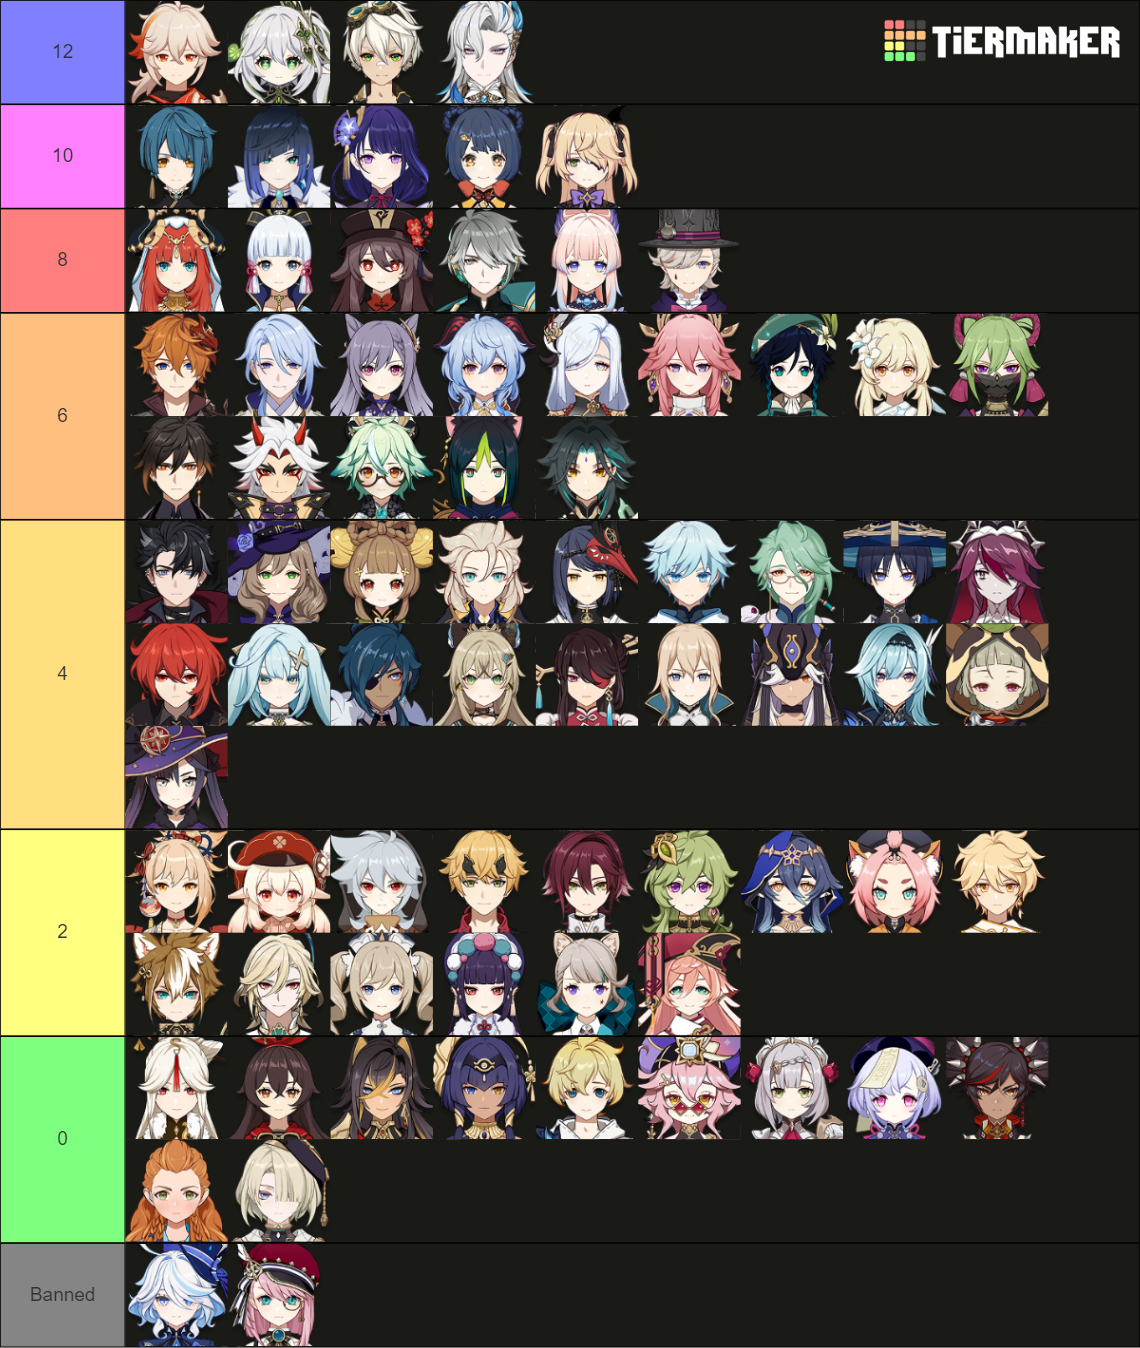
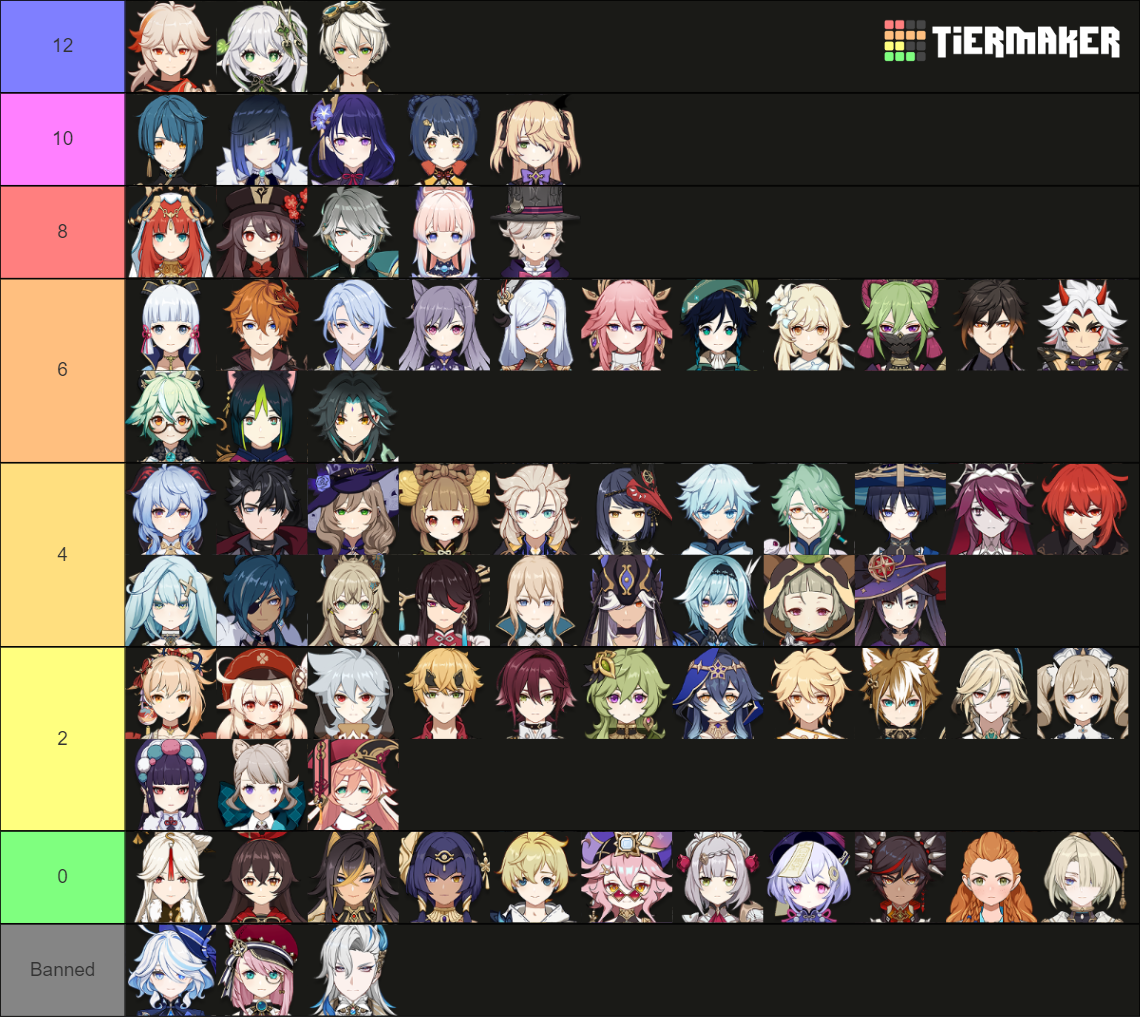
Cycle 1 bans & shop updated

diff --git a/shop.html b/shop.html
@@ -60,6 +60,11 @@
               each refinement it has
             </p>
             <p>
+              Characters released during the patch will always be banned until
+              the next rotation. Additonal bans might occur depending on the
+              floor
+            </p>
+            <p>
               The following characters get an additional cost penalty with their
               respective constellation (note that the teambuilder does not
               calculate the constellation penalties for you):

diff --git a/WalmartBets.js b/WalmartBets.js
@@ -512,7 +512,7 @@ function loadManualCharacterCosts() {
     Tartaglia: ["Hydro", 5, "Bow", 6],
     Mona: ["Hydro", 5, "Catalyst", 2],
     Nilou: ["Hydro", 5, "Sword", 8],
-    Neuvillette: ["Hydro", 5, "Catalyst", 8],
+    // Neuvillette: ["Hydro", 5, "Catalyst", 12],
     // Furina: ["Hydro", 5, "Sword", 8],
     Bennett: ["Pyro", 4, "Sword", 12],
     Xiangling: ["Pyro", 4, "Polearm", 10],
